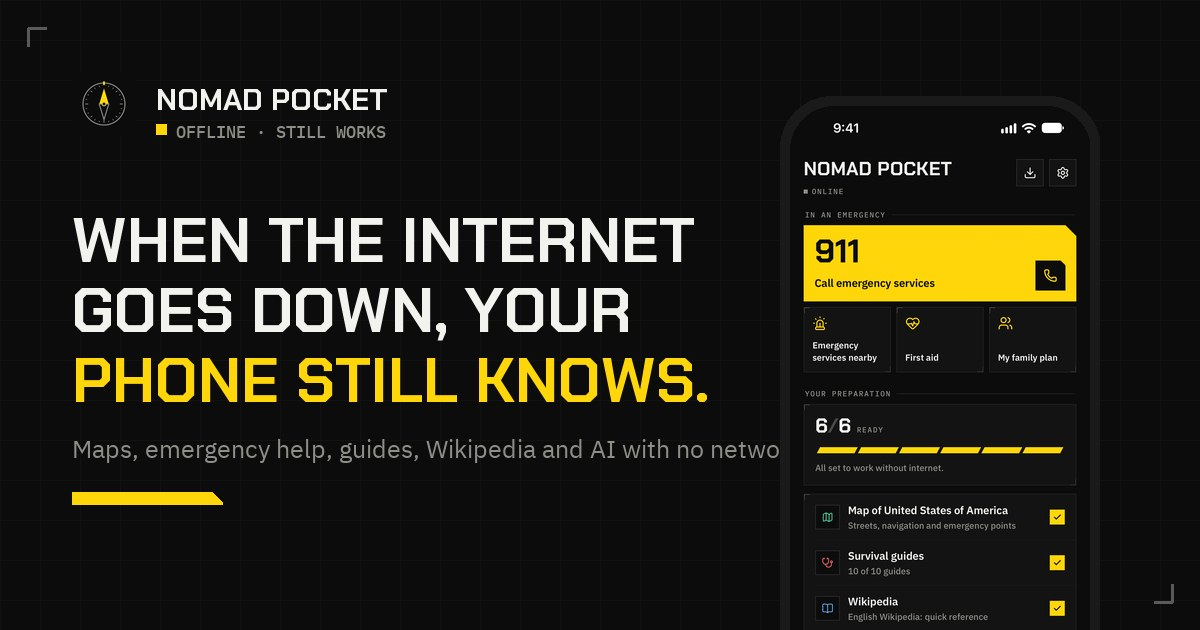
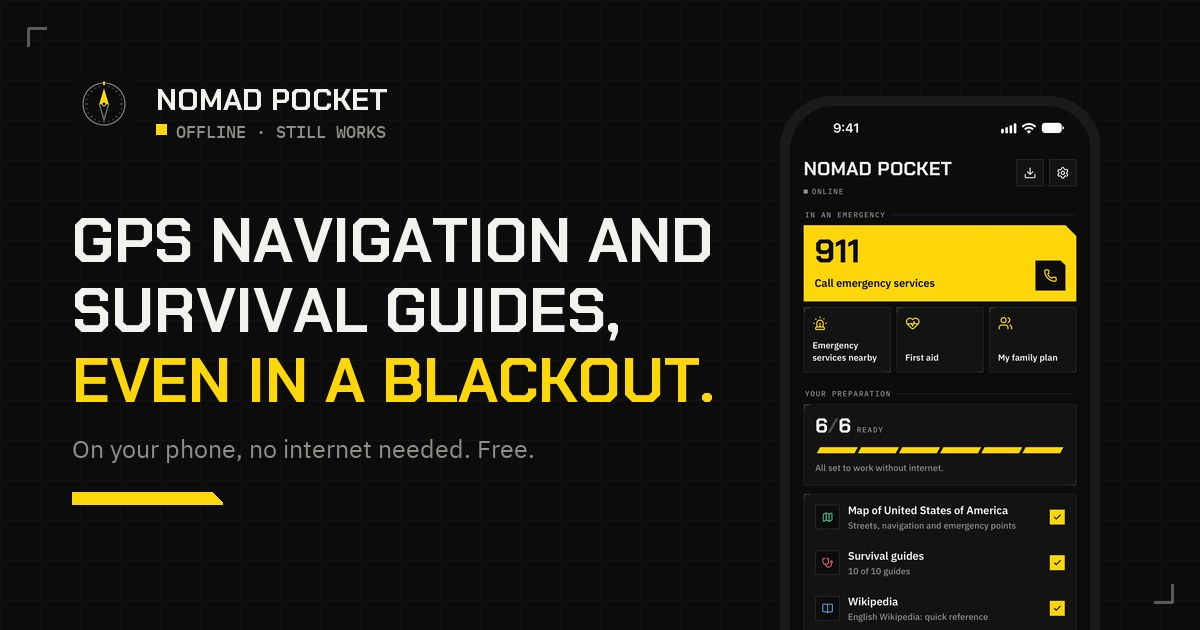
Site: headline says it works in a blackout
The owner found "Cuando se cae internet, tu móvil sigue sabiendo" unclear. The new headline names what the app
gives and when: "Navegador GPS y guías de supervivencia en tu móvil, aunque haya un apagón" (EN "GPS navigation
and survival guides on your phone, even in a blackout"). The lead now says what the headline doesn't (prepare
online, works with no internet, signal or power), and the title, description and social cards follow. The
headline is longer, so its size comes down; four-line social card titles get a smaller size too.

Changed region(s): [[0.0617, 0.4524, 0.5858, 0.6635], [0.0617, 0.3317, 0.6167, 0.4222], [0.0617, 0.6937, 0.6475, 0.754]]

diff --git a/site/index.html b/site/index.html
@@ -3,8 +3,8 @@
 <head>
   <meta charset="utf-8">
   <meta name="viewport" content="width=device-width, initial-scale=1, viewport-fit=cover">
-  <title>Nomad Pocket: la app de emergencia que funciona sin internet</title>
-  <meta name="description" content="Mapas y rutas sin conexión, hospitales cercanos, guía de emergencia, Wikipedia e IA en tu móvil. Para apagones, caídas de internet y ciberataques. Gratis.">
+  <title>Nomad Pocket: la app de emergencia que funciona en un apagón y sin internet</title>
+  <meta name="description" content="Navegador GPS, guías de supervivencia, hospitales cercanos, Wikipedia, cursos e IA en tu móvil, aunque haya un apagón o se caiga internet. Gratis y de código abierto.">
   <link rel="canonical" href="https://nomad-pocket.app/">
   <link rel="alternate" hreflang="es" href="https://nomad-pocket.app/">
   <link rel="alternate" hreflang="en" href="https://nomad-pocket.app/en/">
@@ -15,13 +15,13 @@
   <meta name="robots" content="index, follow, max-image-preview:large">
   <meta property="og:type" content="website">
   <meta property="og:site_name" content="Nomad Pocket">
-  <meta property="og:title" content="Nomad Pocket: la app de emergencia que funciona sin internet">
-  <meta property="og:description" content="Mapas y rutas sin conexión, hospitales cercanos, guía de emergencia, Wikipedia e IA en tu móvil. Para apagones, caídas de internet y ciberataques. Gratis.">
+  <meta property="og:title" content="Nomad Pocket: la app de emergencia que funciona en un apagón y sin internet">
+  <meta property="og:description" content="Navegador GPS, guías de supervivencia, hospitales cercanos, Wikipedia, cursos e IA en tu móvil, aunque haya un apagón o se caiga internet. Gratis y de código abierto.">
   <meta property="og:url" content="https://nomad-pocket.app/">
   <meta property="og:image" content="https://nomad-pocket.app/img/og-es.jpg">
   <meta property="og:image:width" content="1200">
   <meta property="og:image:height" content="630">
-  <meta property="og:image:alt" content="Nomad Pocket: cuando se cae internet, tu móvil sigue sabiendo.">
+  <meta property="og:image:alt" content="Nomad Pocket: navegador GPS y guías de supervivencia en tu móvil, aunque haya un apagón.">
   <meta property="og:locale" content="es_ES">
   <meta property="og:locale:alternate" content="en_US">
   <meta name="twitter:card" content="summary_large_image">
@@ -33,7 +33,7 @@
   <link rel="stylesheet" href="style.css">
   <link rel="stylesheet" href="landing.css">
   <script>document.documentElement.classList.add('js')</script>
-  <script type="application/ld+json">{"@context":"https://schema.org","@graph":[{"@type":"MobileApplication","@id":"https://nomad-pocket.app/#app","name":"Nomad Pocket","alternateName":"Nomad Pocket: Kit Offline","description":"Mapas y rutas sin conexión, hospitales cercanos, guía de emergencia, Wikipedia e IA en tu móvil. Para apagones, caídas de internet y ciberataques. Gratis.","url":"https://nomad-pocket.app/","image":"https://nomad-pocket.app/img/icon-512.png","screenshot":["https://nomad-pocket.app/img/screens/es/home.webp","https://nomad-pocket.app/img/screens/es/navigation.webp","https://nomad-pocket.app/img/screens/es/emergency.webp","https://nomad-pocket.app/img/screens/es/firstaid.webp","https://nomad-pocket.app/img/screens/es/assistant.webp","https://nomad-pocket.app/img/screens/es/library.webp","https://nomad-pocket.app/img/screens/es/plan.webp","https://nomad-pocket.app/img/screens/es/kit.webp"],"operatingSystem":"iOS 16.4, iPadOS 16.4","applicationCategory":"UtilitiesApplication","inLanguage":["es","en"],"isAccessibleForFree":true,"license":"https://www.gnu.org/licenses/gpl-3.0.html","offers":{"@type":"Offer","price":"0","priceCurrency":"EUR"},"installUrl":"https://apps.apple.com/app/nomad-pocket-kit-offline/id6826502392","downloadUrl":"https://apps.apple.com/app/nomad-pocket-kit-offline/id6826502392","author":{"@type":"Person","name":"Fran Linde Blázquez"},"sameAs":["https://apps.apple.com/app/nomad-pocket-kit-offline/id6826502392","https://github.com/franlindebl/nomad-pocket"]},{"@type":"WebSite","@id":"https://nomad-pocket.app/#site","name":"Nomad Pocket","url":"https://nomad-pocket.app/","inLanguage":"es"},{"@type":"FAQPage","inLanguage":"es","mainEntity":[{"@type":"Question","name":"¿De verdad funciona sin internet?","acceptedAnswer":{"@type":"Answer","text":"Sí. Solo necesitas conexión para descargar el contenido (mejor con wifi) y para buscar actualizaciones. Después, mapas, rutas, búsqueda de calles, puntos de emergencia, guía, biblioteca y asistente funcionan en modo avión."}},{"@type":"Question","name":"¿El GPS funciona sin datos?","acceptedAnswer":{"@type":"Answer","text":"Sí. El GPS recibe la señal de los satélites, no de internet, así que el mapa te sitúa aunque no haya cobertura. La primera posición puede tardar algo más que con datos."}},{"@type":"Question","name":"¿Cuánto espacio ocupa?","acceptedAnswer":{"@type":"Answer","text":"Tú eliges. El asistente de bienvenida propone un kit para tu país y tu espacio libre (mapa y navegación, guías esenciales, Wikipedia y asistente) y puedes desactivar cada pieza. Un país ocupa desde unas decenas de MB hasta varios GB."}},{"@type":"Question","name":"¿Funciona en mi país?","acceptedAnswer":{"@type":"Answer","text":"Hay mapas, rutas y puntos de emergencia de casi todos los países del mundo, y un mapa mundial viene incluido desde el primer segundo. La app está en español e inglés, y la biblioteca tiene contenido en muchos idiomas."}},{"@type":"Question","name":"¿Es gratis? ¿Dónde está el truco?","acceptedAnswer":{"@type":"Answer","text":"No hay truco: es gratis, sin anuncios, sin compras y sin suscripciones. Es un proyecto de código abierto sin servidor propio, así que no hay nada que cobrar ni datos que vender."}},{"@type":"Question","name":"¿Qué dispositivos son compatibles?","acceptedAnswer":{"@type":"Answer","text":"iPhone y iPad con iOS 16.4 o posterior. Android 8.0 o posterior, muy pronto en Google Play. El asistente usa Apple Intelligence donde está disponible; si no, descargas un modelo desde la app (desde unos 500 MB; los más grandes necesitan más memoria)."}},{"@type":"Question","name":"¿Y en Android?","acceptedAnswer":{"@type":"Answer","text":"Está en revisión en Google Play y llegará pronto, con mapas, rutas, emergencias, biblioteca, plan y asistente. Los primeros auxilios y la información médica solo están en iPhone y iPad."}},{"@type":"Question","name":"¿Recogéis mis datos?","acceptedAnswer":{"@type":"Answer","text":"No. No hay cuentas, ni analítica, ni publicidad, ni rastreo. Lo que haces en la app se queda en tu dispositivo. Los detalles, en la política de privacidad."}},{"@type":"Question","name":"¿Sustituye a los servicios de emergencia?","acceptedAnswer":{"@type":"Answer","text":"No. Te ayuda cuando no hay red, pero la IA puede equivocarse y la información médica no sustituye a un profesional. Si puedes, llama siempre al número de emergencias."}}]}]}</script>
+  <script type="application/ld+json">{"@context":"https://schema.org","@graph":[{"@type":"MobileApplication","@id":"https://nomad-pocket.app/#app","name":"Nomad Pocket","alternateName":"Nomad Pocket: Kit Offline","description":"Navegador GPS, guías de supervivencia, hospitales cercanos, Wikipedia, cursos e IA en tu móvil, aunque haya un apagón o se caiga internet. Gratis y de código abierto.","url":"https://nomad-pocket.app/","image":"https://nomad-pocket.app/img/icon-512.png","screenshot":["https://nomad-pocket.app/img/screens/es/home.webp","https://nomad-pocket.app/img/screens/es/navigation.webp","https://nomad-pocket.app/img/screens/es/emergency.webp","https://nomad-pocket.app/img/screens/es/firstaid.webp","https://nomad-pocket.app/img/screens/es/assistant.webp","https://nomad-pocket.app/img/screens/es/library.webp","https://nomad-pocket.app/img/screens/es/plan.webp","https://nomad-pocket.app/img/screens/es/kit.webp"],"operatingSystem":"iOS 16.4, iPadOS 16.4","applicationCategory":"UtilitiesApplication","inLanguage":["es","en"],"isAccessibleForFree":true,"license":"https://www.gnu.org/licenses/gpl-3.0.html","offers":{"@type":"Offer","price":"0","priceCurrency":"EUR"},"installUrl":"https://apps.apple.com/app/nomad-pocket-kit-offline/id6826502392","downloadUrl":"https://apps.apple.com/app/nomad-pocket-kit-offline/id6826502392","author":{"@type":"Person","name":"Fran Linde Blázquez"},"sameAs":["https://apps.apple.com/app/nomad-pocket-kit-offline/id6826502392","https://github.com/franlindebl/nomad-pocket"]},{"@type":"WebSite","@id":"https://nomad-pocket.app/#site","name":"Nomad Pocket","url":"https://nomad-pocket.app/","inLanguage":"es"},{"@type":"FAQPage","inLanguage":"es","mainEntity":[{"@type":"Question","name":"¿De verdad funciona sin internet?","acceptedAnswer":{"@type":"Answer","text":"Sí. Solo necesitas conexión para descargar el contenido (mejor con wifi) y para buscar actualizaciones. Después, mapas, rutas, búsqueda de calles, puntos de emergencia, guía, biblioteca y asistente funcionan en modo avión."}},{"@type":"Question","name":"¿El GPS funciona sin datos?","acceptedAnswer":{"@type":"Answer","text":"Sí. El GPS recibe la señal de los satélites, no de internet, así que el mapa te sitúa aunque no haya cobertura. La primera posición puede tardar algo más que con datos."}},{"@type":"Question","name":"¿Cuánto espacio ocupa?","acceptedAnswer":{"@type":"Answer","text":"Tú eliges. El asistente de bienvenida propone un kit para tu país y tu espacio libre (mapa y navegación, guías esenciales, Wikipedia y asistente) y puedes desactivar cada pieza. Un país ocupa desde unas decenas de MB hasta varios GB."}},{"@type":"Question","name":"¿Funciona en mi país?","acceptedAnswer":{"@type":"Answer","text":"Hay mapas, rutas y puntos de emergencia de casi todos los países del mundo, y un mapa mundial viene incluido desde el primer segundo. La app está en español e inglés, y la biblioteca tiene contenido en muchos idiomas."}},{"@type":"Question","name":"¿Es gratis? ¿Dónde está el truco?","acceptedAnswer":{"@type":"Answer","text":"No hay truco: es gratis, sin anuncios, sin compras y sin suscripciones. Es un proyecto de código abierto sin servidor propio, así que no hay nada que cobrar ni datos que vender."}},{"@type":"Question","name":"¿Qué dispositivos son compatibles?","acceptedAnswer":{"@type":"Answer","text":"iPhone y iPad con iOS 16.4 o posterior. Android 8.0 o posterior, muy pronto en Google Play. El asistente usa Apple Intelligence donde está disponible; si no, descargas un modelo desde la app (desde unos 500 MB; los más grandes necesitan más memoria)."}},{"@type":"Question","name":"¿Y en Android?","acceptedAnswer":{"@type":"Answer","text":"Está en revisión en Google Play y llegará pronto, con mapas, rutas, emergencias, biblioteca, plan y asistente. Los primeros auxilios y la información médica solo están en iPhone y iPad."}},{"@type":"Question","name":"¿Recogéis mis datos?","acceptedAnswer":{"@type":"Answer","text":"No. No hay cuentas, ni analítica, ni publicidad, ni rastreo. Lo que haces en la app se queda en tu dispositivo. Los detalles, en la política de privacidad."}},{"@type":"Question","name":"¿Sustituye a los servicios de emergencia?","acceptedAnswer":{"@type":"Answer","text":"No. Te ayuda cuando no hay red, pero la IA puede equivocarse y la información médica no sustituye a un profesional. Si puedes, llama siempre al número de emergencias."}}]}]}</script>
 </head>
 <body>
 <a class="skip" href="#main">Saltar al contenido</a>
@@ -59,8 +59,8 @@
     <div class="wrap">
       <div>
         <p class="status"><i></i><b>Sin conexión</b> · todo funciona</p>
-        <h1>Cuando se cae internet, tu móvil <em>sigue sabiendo.</em></h1>
-        <p class="lead">Mapas con rutas, hospitales cercanos, una guía de emergencia, Wikipedia y una IA que vive en tu teléfono. <strong>Lo preparas hoy con conexión; mañana funciona sin red.</strong> Gratis y de código abierto.</p>
+        <h1>Navegador GPS y guías de supervivencia en tu móvil, <em>aunque haya un apagón.</em></h1>
+        <p class="lead"><strong>Lo preparas hoy con conexión y mañana funciona sin internet, sin cobertura y sin luz.</strong> Con hospitales cercanos, Wikipedia, cursos y una IA que vive en tu teléfono. Gratis y de código abierto.</p>
         <div class="stores"><a class="badge-ios" href="https://apps.apple.com/app/nomad-pocket-kit-offline/id6826502392" data-where="hero"><img src="img/badge-app-store-es.svg" width="162" height="54" alt="Descargar en el App Store"></a><span class="soon"><svg viewBox="0 0 24 24" fill="none" stroke="currentColor" stroke-width="2" stroke-linecap="round" stroke-linejoin="round" aria-hidden="true"><rect width="14" height="20" x="5" y="2" rx="2" ry="2"/><path d="M12 18h.01"/></svg><span><small>Próximamente</small><strong>Android · Google Play</strong></span></span></div>
         <ul class="facts"><li><svg viewBox="0 0 24 24" fill="none" stroke="currentColor" stroke-width="2" stroke-linecap="round" stroke-linejoin="round" aria-hidden="true"><path d="M20 6 9 17l-5-5"/></svg>100 % gratis</li><li><svg viewBox="0 0 24 24" fill="none" stroke="currentColor" stroke-width="2" stroke-linecap="round" stroke-linejoin="round" aria-hidden="true"><path d="M20 6 9 17l-5-5"/></svg>Código abierto</li><li><svg viewBox="0 0 24 24" fill="none" stroke="currentColor" stroke-width="2" stroke-linecap="round" stroke-linejoin="round" aria-hidden="true"><path d="M20 6 9 17l-5-5"/></svg>Sin cuentas</li><li><svg viewBox="0 0 24 24" fill="none" stroke="currentColor" stroke-width="2" stroke-linecap="round" stroke-linejoin="round" aria-hidden="true"><path d="M20 6 9 17l-5-5"/></svg>Sin anuncios</li></ul>
       </div>

diff --git a/site/en/index.html b/site/en/index.html
@@ -3,8 +3,8 @@
 <head>
   <meta charset="utf-8">
   <meta name="viewport" content="width=device-width, initial-scale=1, viewport-fit=cover">
-  <title>Nomad Pocket: the emergency app that works without internet</title>
-  <meta name="description" content="Offline maps and routes, nearby hospitals, an emergency guide, Wikipedia and AI on your phone. For blackouts, internet outages and cyberattacks. Free.">
+  <title>Nomad Pocket: the emergency app that works in a blackout, offline</title>
+  <meta name="description" content="GPS navigation, survival guides, nearby hospitals, Wikipedia, courses and AI on your phone, even in a blackout or an internet outage. Free and open source.">
   <link rel="canonical" href="https://nomad-pocket.app/en/">
   <link rel="alternate" hreflang="es" href="https://nomad-pocket.app/">
   <link rel="alternate" hreflang="en" href="https://nomad-pocket.app/en/">
@@ -15,13 +15,13 @@
   <meta name="robots" content="index, follow, max-image-preview:large">
   <meta property="og:type" content="website">
   <meta property="og:site_name" content="Nomad Pocket">
-  <meta property="og:title" content="Nomad Pocket: the emergency app that works without internet">
-  <meta property="og:description" content="Offline maps and routes, nearby hospitals, an emergency guide, Wikipedia and AI on your phone. For blackouts, internet outages and cyberattacks. Free.">
+  <meta property="og:title" content="Nomad Pocket: the emergency app that works in a blackout, offline">
+  <meta property="og:description" content="GPS navigation, survival guides, nearby hospitals, Wikipedia, courses and AI on your phone, even in a blackout or an internet outage. Free and open source.">
   <meta property="og:url" content="https://nomad-pocket.app/en/">
   <meta property="og:image" content="https://nomad-pocket.app/img/og-en.jpg">
   <meta property="og:image:width" content="1200">
   <meta property="og:image:height" content="630">
-  <meta property="og:image:alt" content="Nomad Pocket: when the internet goes down, your phone still knows.">
+  <meta property="og:image:alt" content="Nomad Pocket: GPS navigation and survival guides on your phone, even in a blackout.">
   <meta property="og:locale" content="en_US">
   <meta property="og:locale:alternate" content="es_ES">
   <meta name="twitter:card" content="summary_large_image">
@@ -33,7 +33,7 @@
   <link rel="stylesheet" href="../style.css">
   <link rel="stylesheet" href="../landing.css">
   <script>document.documentElement.classList.add('js')</script>
-  <script type="application/ld+json">{"@context":"https://schema.org","@graph":[{"@type":"MobileApplication","@id":"https://nomad-pocket.app/#app","name":"Nomad Pocket","alternateName":"Nomad Pocket: Kit Offline","description":"Offline maps and routes, nearby hospitals, an emergency guide, Wikipedia and AI on your phone. For blackouts, internet outages and cyberattacks. Free.","url":"https://nomad-pocket.app/en/","image":"https://nomad-pocket.app/img/icon-512.png","screenshot":["https://nomad-pocket.app/img/screens/en/home.webp","https://nomad-pocket.app/img/screens/en/navigation.webp","https://nomad-pocket.app/img/screens/en/emergency.webp","https://nomad-pocket.app/img/screens/en/firstaid.webp","https://nomad-pocket.app/img/screens/en/assistant.webp","https://nomad-pocket.app/img/screens/en/library.webp","https://nomad-pocket.app/img/screens/en/plan.webp","https://nomad-pocket.app/img/screens/en/kit.webp"],"operatingSystem":"iOS 16.4, iPadOS 16.4","applicationCategory":"UtilitiesApplication","inLanguage":["es","en"],"isAccessibleForFree":true,"license":"https://www.gnu.org/licenses/gpl-3.0.html","offers":{"@type":"Offer","price":"0","priceCurrency":"USD"},"installUrl":"https://apps.apple.com/app/nomad-pocket-kit-offline/id6826502392","downloadUrl":"https://apps.apple.com/app/nomad-pocket-kit-offline/id6826502392","author":{"@type":"Person","name":"Fran Linde Blázquez"},"sameAs":["https://apps.apple.com/app/nomad-pocket-kit-offline/id6826502392","https://github.com/franlindebl/nomad-pocket"]},{"@type":"WebSite","@id":"https://nomad-pocket.app/#site","name":"Nomad Pocket","url":"https://nomad-pocket.app/","inLanguage":"en"},{"@type":"FAQPage","inLanguage":"en","mainEntity":[{"@type":"Question","name":"Does it really work without internet?","acceptedAnswer":{"@type":"Answer","text":"Yes. You only need a connection to download the content (Wi‑Fi is best) and to check for updates. After that, maps, routes, street search, emergency points, the guide, the library and the assistant all work in airplane mode."}},{"@type":"Question","name":"Does GPS work without data?","acceptedAnswer":{"@type":"Answer","text":"Yes. GPS receives signals from satellites, not from the internet, so the map finds you even with no signal. The first fix may take a little longer than with data."}},{"@type":"Question","name":"How much space does it take?","acceptedAnswer":{"@type":"Answer","text":"You decide. The welcome wizard suggests a kit for your country and free space (map and navigation, essential guides, Wikipedia and the assistant) and you can switch off each piece. A country takes from a few tens of MB to several GB."}},{"@type":"Question","name":"Does it work in my country?","acceptedAnswer":{"@type":"Answer","text":"There are maps, routes and emergency points for almost every country in the world, and a world map is built in from the first second. The app is in English and Spanish, and the library has content in many languages."}},{"@type":"Question","name":"Is it free? What’s the catch?","acceptedAnswer":{"@type":"Answer","text":"No catch: it’s free, with no ads, no purchases and no subscriptions. It’s an open source project with no server of its own, so there’s nothing to charge for and no data to sell."}},{"@type":"Question","name":"Which devices are supported?","acceptedAnswer":{"@type":"Answer","text":"iPhone and iPad with iOS 16.4 or later. Android 8.0 or later, coming soon to Google Play. The assistant uses Apple Intelligence where available; otherwise you download a model in the app (from about 500 MB; larger ones need more memory)."}},{"@type":"Question","name":"What about Android?","acceptedAnswer":{"@type":"Answer","text":"It’s in review on Google Play and coming soon, with maps, routes, emergency services, the library, the plan and the assistant. First aid and medical information are only on iPhone and iPad."}},{"@type":"Question","name":"Do you collect my data?","acceptedAnswer":{"@type":"Answer","text":"No. No accounts, no analytics, no ads, no tracking. What you do in the app stays on your device. The details are in the privacy policy."}},{"@type":"Question","name":"Does it replace the emergency services?","acceptedAnswer":{"@type":"Answer","text":"No. It helps when there’s no network, but the AI can make mistakes and medical information is no substitute for a professional. If you can, always call the emergency number."}}]}]}</script>
+  <script type="application/ld+json">{"@context":"https://schema.org","@graph":[{"@type":"MobileApplication","@id":"https://nomad-pocket.app/#app","name":"Nomad Pocket","alternateName":"Nomad Pocket: Kit Offline","description":"GPS navigation, survival guides, nearby hospitals, Wikipedia, courses and AI on your phone, even in a blackout or an internet outage. Free and open source.","url":"https://nomad-pocket.app/en/","image":"https://nomad-pocket.app/img/icon-512.png","screenshot":["https://nomad-pocket.app/img/screens/en/home.webp","https://nomad-pocket.app/img/screens/en/navigation.webp","https://nomad-pocket.app/img/screens/en/emergency.webp","https://nomad-pocket.app/img/screens/en/firstaid.webp","https://nomad-pocket.app/img/screens/en/assistant.webp","https://nomad-pocket.app/img/screens/en/library.webp","https://nomad-pocket.app/img/screens/en/plan.webp","https://nomad-pocket.app/img/screens/en/kit.webp"],"operatingSystem":"iOS 16.4, iPadOS 16.4","applicationCategory":"UtilitiesApplication","inLanguage":["es","en"],"isAccessibleForFree":true,"license":"https://www.gnu.org/licenses/gpl-3.0.html","offers":{"@type":"Offer","price":"0","priceCurrency":"USD"},"installUrl":"https://apps.apple.com/app/nomad-pocket-kit-offline/id6826502392","downloadUrl":"https://apps.apple.com/app/nomad-pocket-kit-offline/id6826502392","author":{"@type":"Person","name":"Fran Linde Blázquez"},"sameAs":["https://apps.apple.com/app/nomad-pocket-kit-offline/id6826502392","https://github.com/franlindebl/nomad-pocket"]},{"@type":"WebSite","@id":"https://nomad-pocket.app/#site","name":"Nomad Pocket","url":"https://nomad-pocket.app/","inLanguage":"en"},{"@type":"FAQPage","inLanguage":"en","mainEntity":[{"@type":"Question","name":"Does it really work without internet?","acceptedAnswer":{"@type":"Answer","text":"Yes. You only need a connection to download the content (Wi‑Fi is best) and to check for updates. After that, maps, routes, street search, emergency points, the guide, the library and the assistant all work in airplane mode."}},{"@type":"Question","name":"Does GPS work without data?","acceptedAnswer":{"@type":"Answer","text":"Yes. GPS receives signals from satellites, not from the internet, so the map finds you even with no signal. The first fix may take a little longer than with data."}},{"@type":"Question","name":"How much space does it take?","acceptedAnswer":{"@type":"Answer","text":"You decide. The welcome wizard suggests a kit for your country and free space (map and navigation, essential guides, Wikipedia and the assistant) and you can switch off each piece. A country takes from a few tens of MB to several GB."}},{"@type":"Question","name":"Does it work in my country?","acceptedAnswer":{"@type":"Answer","text":"There are maps, routes and emergency points for almost every country in the world, and a world map is built in from the first second. The app is in English and Spanish, and the library has content in many languages."}},{"@type":"Question","name":"Is it free? What’s the catch?","acceptedAnswer":{"@type":"Answer","text":"No catch: it’s free, with no ads, no purchases and no subscriptions. It’s an open source project with no server of its own, so there’s nothing to charge for and no data to sell."}},{"@type":"Question","name":"Which devices are supported?","acceptedAnswer":{"@type":"Answer","text":"iPhone and iPad with iOS 16.4 or later. Android 8.0 or later, coming soon to Google Play. The assistant uses Apple Intelligence where available; otherwise you download a model in the app (from about 500 MB; larger ones need more memory)."}},{"@type":"Question","name":"What about Android?","acceptedAnswer":{"@type":"Answer","text":"It’s in review on Google Play and coming soon, with maps, routes, emergency services, the library, the plan and the assistant. First aid and medical information are only on iPhone and iPad."}},{"@type":"Question","name":"Do you collect my data?","acceptedAnswer":{"@type":"Answer","text":"No. No accounts, no analytics, no ads, no tracking. What you do in the app stays on your device. The details are in the privacy policy."}},{"@type":"Question","name":"Does it replace the emergency services?","acceptedAnswer":{"@type":"Answer","text":"No. It helps when there’s no network, but the AI can make mistakes and medical information is no substitute for a professional. If you can, always call the emergency number."}}]}]}</script>
 </head>
 <body>
 <a class="skip" href="#main">Skip to content</a>
@@ -59,8 +59,8 @@
     <div class="wrap">
       <div>
         <p class="status"><i></i><b>Offline</b> · everything works</p>
-        <h1>When the internet goes down, your phone <em>still knows.</em></h1>
-        <p class="lead">Maps with routes, nearby hospitals, an emergency guide, Wikipedia and an AI that lives on your phone. <strong>Set it up today while you’re online; tomorrow it works with no network.</strong> Free and open source.</p>
+        <h1>GPS navigation and survival guides on your phone, <em>even in a blackout.</em></h1>
+        <p class="lead"><strong>Set it up today while you’re online; tomorrow it works with no internet, no signal and no power.</strong> With nearby hospitals, Wikipedia, courses and an AI that lives on your phone. Free and open source.</p>
         <div class="stores"><a class="badge-ios" href="https://apps.apple.com/app/nomad-pocket-kit-offline/id6826502392" data-where="hero"><img src="../img/badge-app-store-en.svg" width="162" height="54" alt="Download on the App Store"></a><span class="soon"><svg viewBox="0 0 24 24" fill="none" stroke="currentColor" stroke-width="2" stroke-linecap="round" stroke-linejoin="round" aria-hidden="true"><rect width="14" height="20" x="5" y="2" rx="2" ry="2"/><path d="M12 18h.01"/></svg><span><small>Coming soon</small><strong>Android · Google Play</strong></span></span></div>
         <ul class="facts"><li><svg viewBox="0 0 24 24" fill="none" stroke="currentColor" stroke-width="2" stroke-linecap="round" stroke-linejoin="round" aria-hidden="true"><path d="M20 6 9 17l-5-5"/></svg>100% free</li><li><svg viewBox="0 0 24 24" fill="none" stroke="currentColor" stroke-width="2" stroke-linecap="round" stroke-linejoin="round" aria-hidden="true"><path d="M20 6 9 17l-5-5"/></svg>Open source</li><li><svg viewBox="0 0 24 24" fill="none" stroke="currentColor" stroke-width="2" stroke-linecap="round" stroke-linejoin="round" aria-hidden="true"><path d="M20 6 9 17l-5-5"/></svg>No accounts</li><li><svg viewBox="0 0 24 24" fill="none" stroke="currentColor" stroke-width="2" stroke-linecap="round" stroke-linejoin="round" aria-hidden="true"><path d="M20 6 9 17l-5-5"/></svg>No ads</li></ul>
       </div>

diff --git a/site/landing.css b/site/landing.css
@@ -121,7 +121,7 @@
 .status b { color: var(--text); font-weight: 500; }
 @keyframes blink { to { visibility: hidden; } }
 .hero h1 {
-  font: 700 clamp(42px, 6.6vw, 82px)/0.96 var(--display);
+  font: 700 clamp(34px, 4.9vw, 62px)/1 var(--display);
   text-transform: uppercase;
   letter-spacing: 0.002em;
   margin: 0 0 24px;

diff --git a/scripts/site/images.py b/scripts/site/images.py
@@ -45,10 +45,10 @@ SECONDARY = (143, 143, 137)
 ACCENT = (255, 214, 10)
 
 OG_TEXT = {
-    'es': ('SIN CONEXIÓN · FUNCIONA IGUAL', ['CUANDO SE CAE', 'INTERNET, TU MÓVIL', 'SIGUE SABIENDO.'],
-           'Mapas, emergencias, guía, Wikipedia e IA sin red.'),
-    'en': ('OFFLINE · STILL WORKS', ['WHEN THE INTERNET', 'GOES DOWN, YOUR', 'PHONE STILL KNOWS.'],
-           'Maps, emergency help, guides, Wikipedia and AI with no network.'),
+    'es': ('SIN CONEXIÓN · FUNCIONA IGUAL', ['NAVEGADOR GPS Y', 'GUÍAS DE', 'SUPERVIVENCIA,', 'AUNQUE HAYA UN APAGÓN.'],
+           'En tu móvil, sin internet. Gratis.'),
+    'en': ('OFFLINE · STILL WORKS', ['GPS NAVIGATION AND', 'SURVIVAL GUIDES,', 'EVEN IN A BLACKOUT.'],
+           'On your phone, no internet needed. Free.'),
 }
 
 
@@ -103,11 +103,13 @@ def og_card(lang: str, screen: Path | None, dst: Path):
     draw.rectangle((x + 84, 124, x + 94, 134), fill=ACCENT)
     draw.text((x + 104, 120), over, font=font('IBMPlexMono-Medium.ttf', 17), fill=SECONDARY)
 
-    title = font('ChakraPetch-Bold.ttf', 62)
-    y = 200
+    # Four lines need a smaller size to leave room for the subtitle and the bar.
+    size = 62 if len(lines) <= 3 else 50
+    title = font('ChakraPetch-Bold.ttf', size)
+    y = 200 if len(lines) <= 3 else 190
     for i, line in enumerate(lines):
         draw.text((x, y), line, font=title, fill=ACCENT if i == len(lines) - 1 else TEXT)
-        y += 70
+        y += size + 8
     draw.text((x, y + 22), sub, font=font('IBMPlexSans-Regular.ttf', 25), fill=SECONDARY)
     # Yellow bar with the cut corner, the app's key-control shape.
     bx, by, bw, bh, cut = x, y + 82, 150, 12, 10

diff --git a/docs/PROGRESS.md b/docs/PROGRESS.md
@@ -364,6 +364,9 @@ All eight screens come from the 2.0.0 store captures. Domain wired: GoDaddy DNS 
 for `@` (parking record replaced) and `www` → `franlindebl.github.io`; the Pages custom domain is `nomad-pocket.app`, so
 `franlindebl.github.io/nomad-pocket/*` (the privacy URL in the apps and listings) redirects to it. Pending: Google's badge
 when the Play listing is public.
+Headline chosen by the owner after it went live: "Navegador GPS y guías de supervivencia en tu móvil, aunque haya un
+apagón" (EN "GPS navigation and survival guides on your phone, even in a blackout"); title, description, lead and
+social cards follow it.
 
 ### 2026-11-03 — iOS build 39 to TestFlight
 
